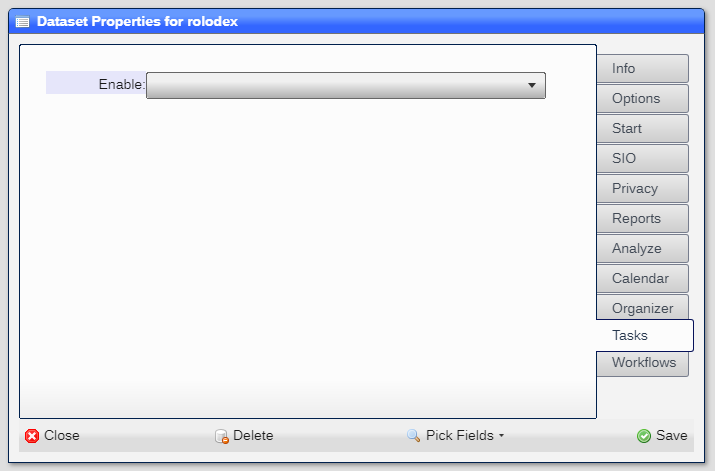
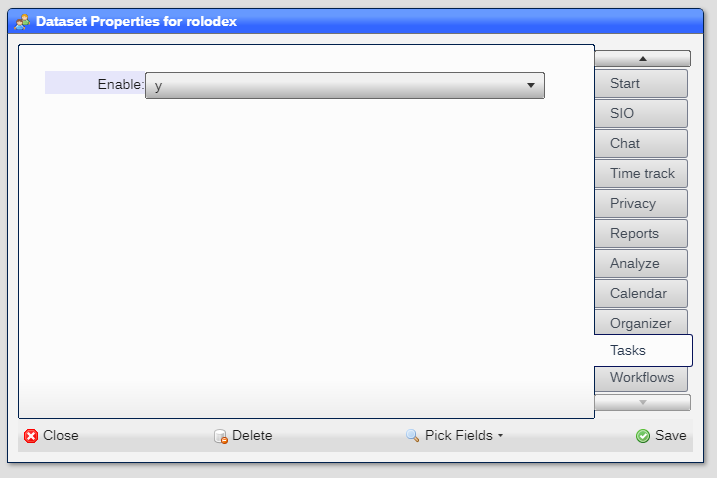
Updated READMEs

Changed region(s): [[0.0, 0.0, 1.0, 1.0], [0.1231, 0.1486, 0.7692, 0.2081]]

diff --git a/readmes/README_D_DATASETS.md b/readmes/README_D_DATASETS.md
@@ -57,6 +57,16 @@ Click on any dataset entry to display the ***Dataset Properties*** window for th
 
 ---
 
+![image](images/Ds21.png)
+
+|Field|Meaning|
+|-|-|
+|Enable|Is the time track feature available for the dataset|
+
+Note that time tracking must be also enabled in the ***Site Settings***
+
+---
+
 ![image](images/Ds6.png)
 
 |Field|Meaning|
